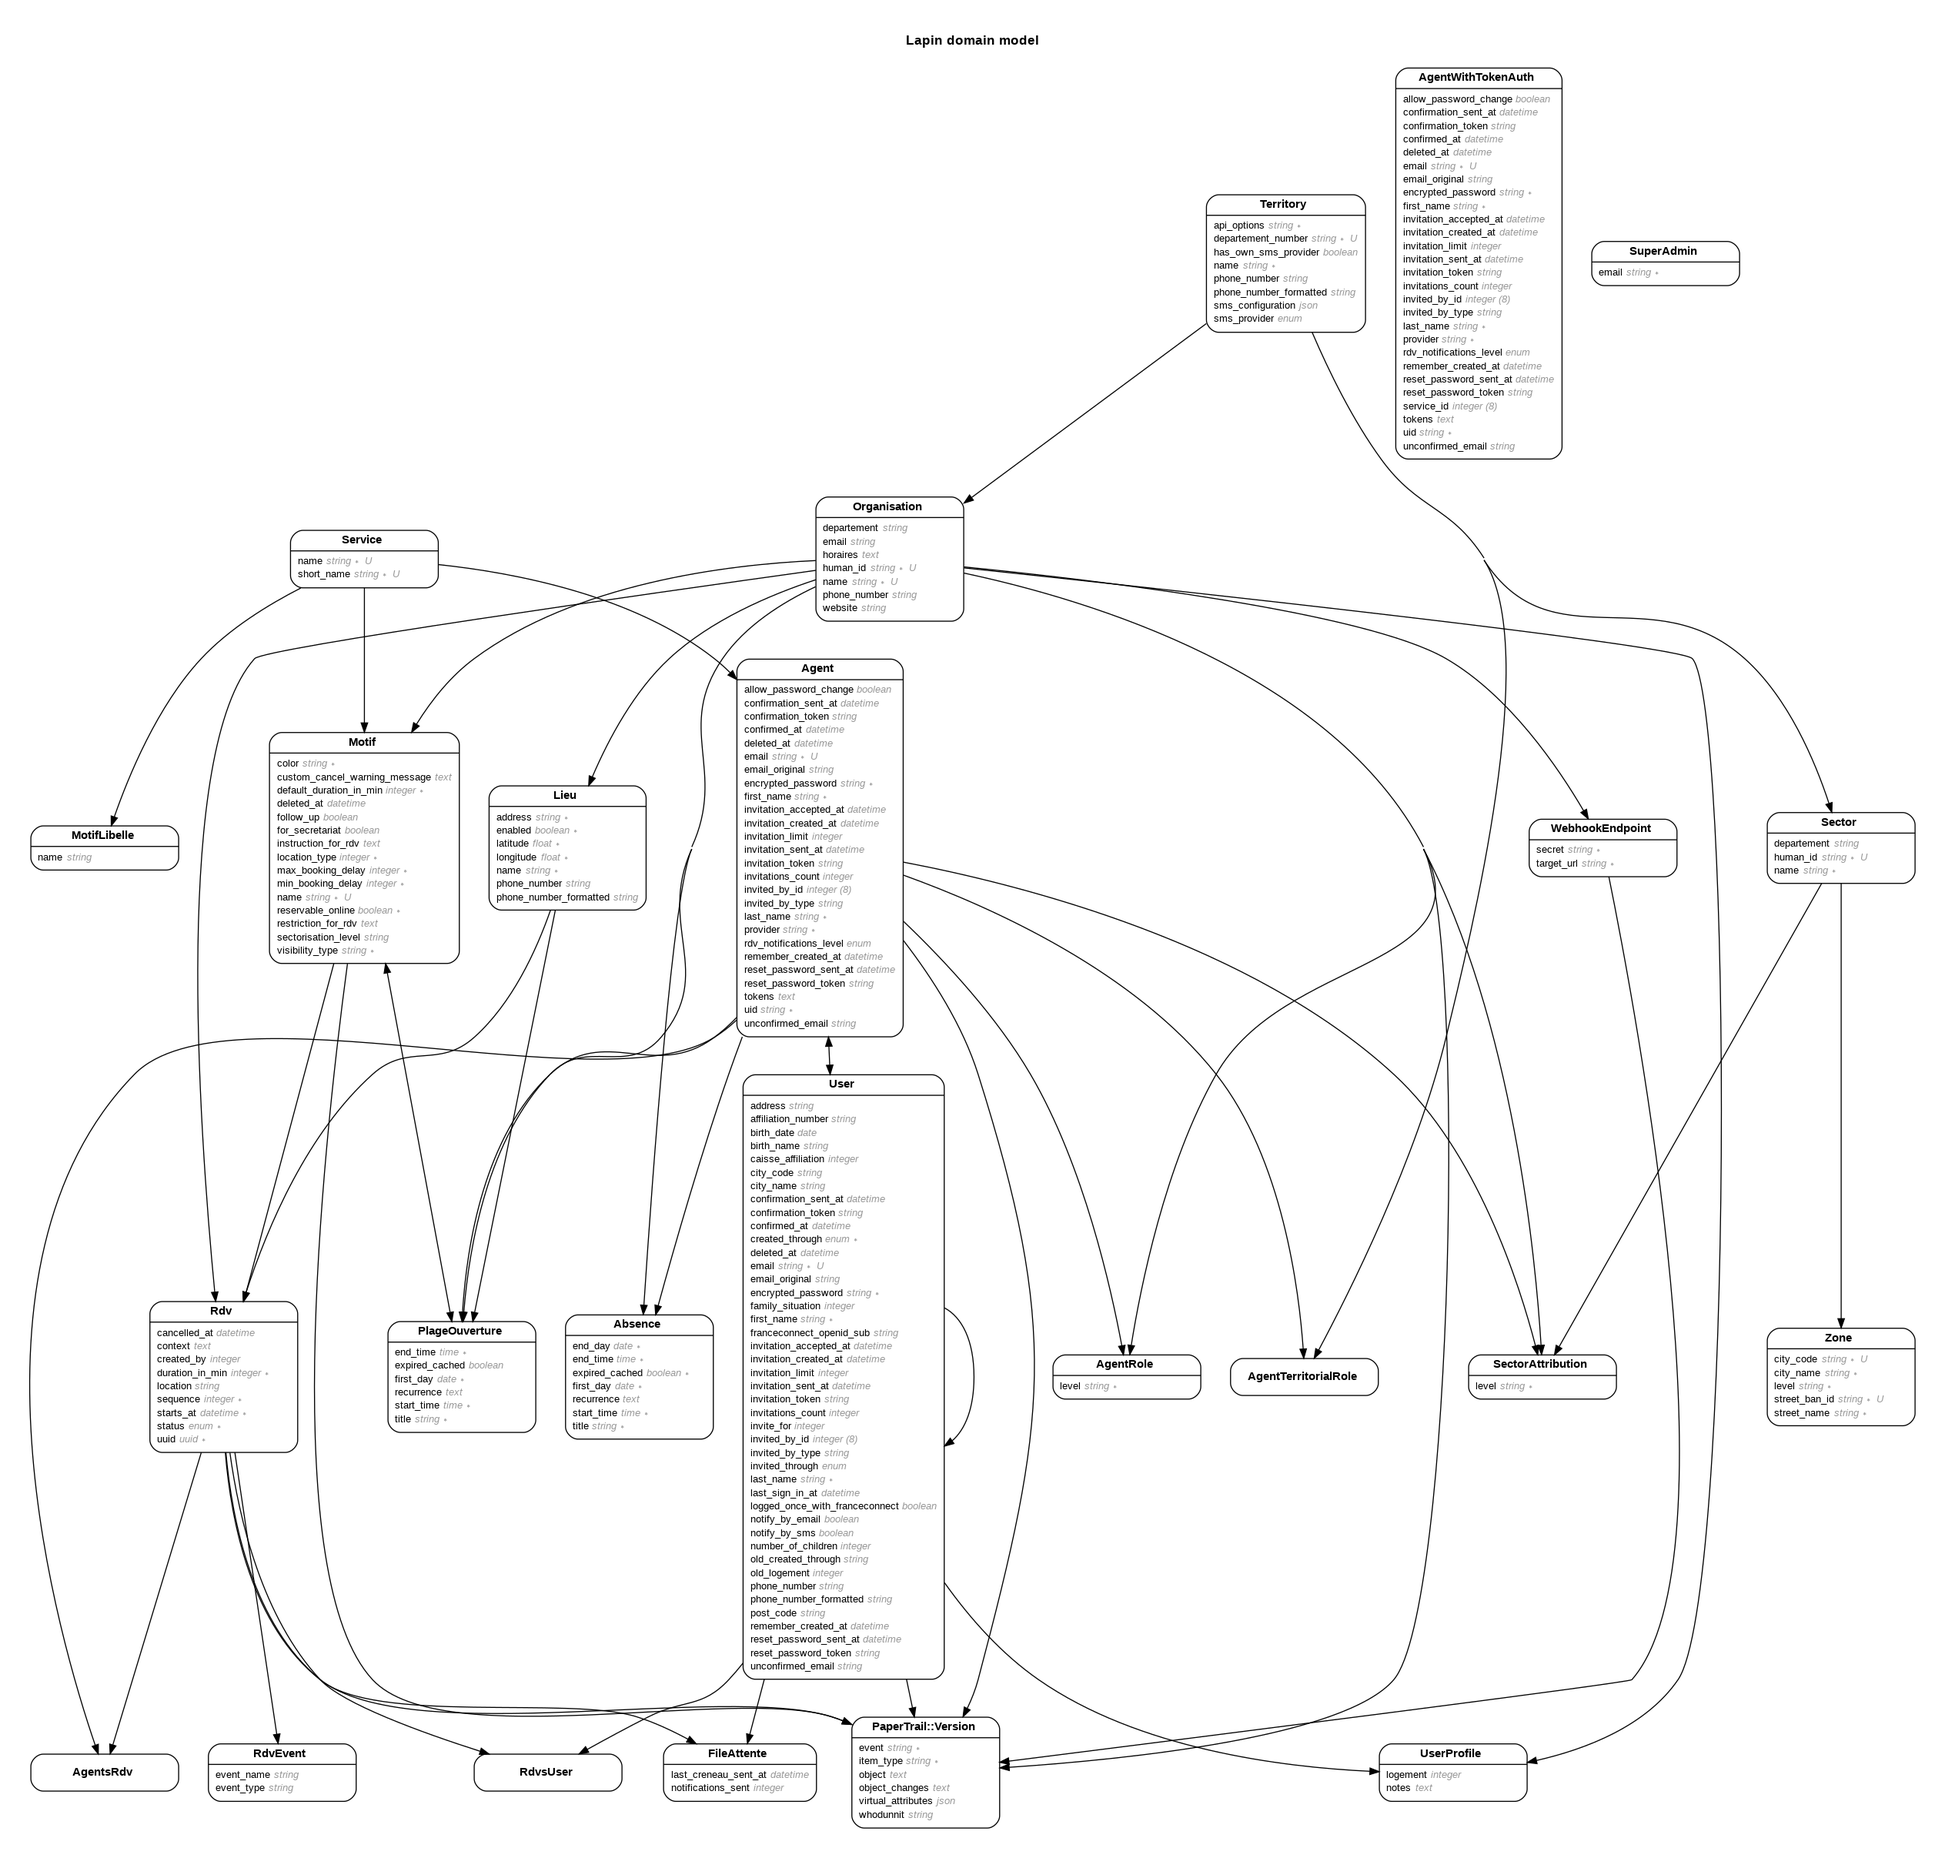
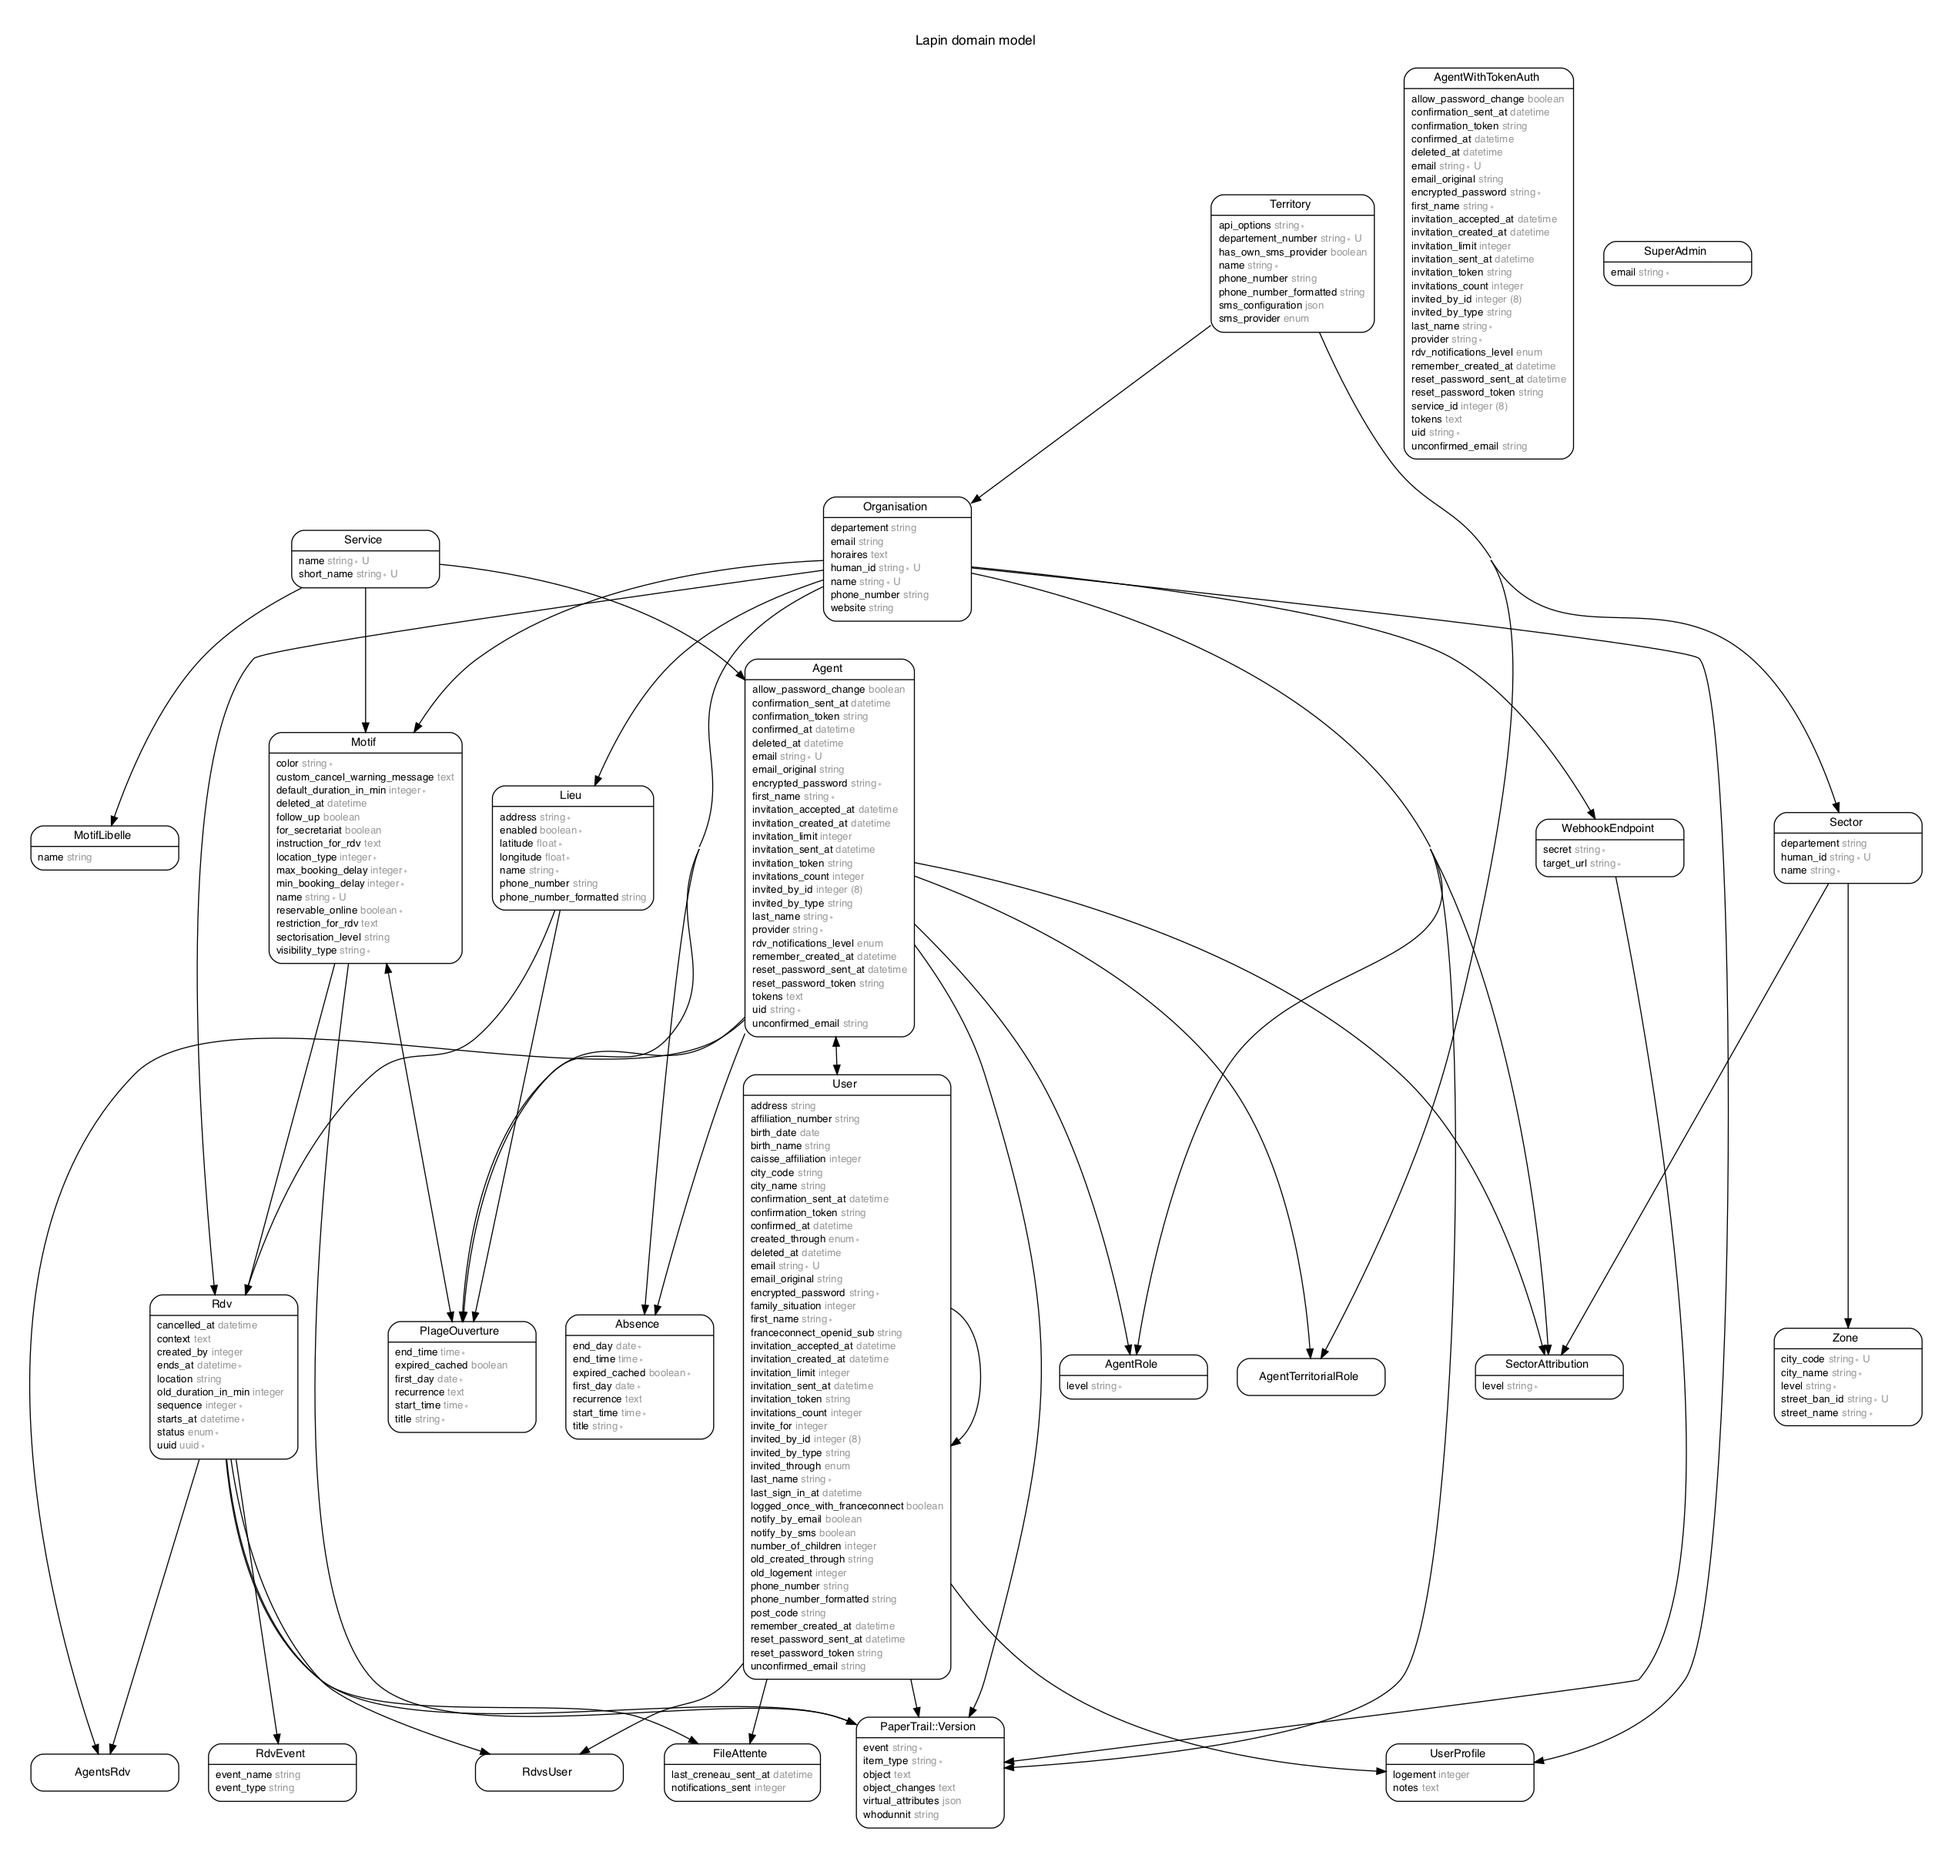
Add Rdv#ends_at

diff --git a/db/schema.rb b/db/schema.rb
@@ -10,7 +10,7 @@
 #
 # It's strongly recommended that you check this file into your version control system.
 
-ActiveRecord::Schema.define(version: 2021_09_30_100857) do
+ActiveRecord::Schema.define(version: 2021_10_05_130448) do
 
   # These are extensions that must be enabled in order to support this database
   enable_extension "plpgsql"
@@ -309,7 +309,7 @@ ActiveRecord::Schema.define(version: 2021_09_30_100857) do
   end
 
   create_table "rdvs", force: :cascade do |t|
-    t.integer "duration_in_min", null: false
+    t.integer "old_duration_in_min"
     t.datetime "starts_at", null: false
     t.bigint "organisation_id"
     t.datetime "created_at", null: false
@@ -323,7 +323,9 @@ ActiveRecord::Schema.define(version: 2021_09_30_100857) do
     t.text "context"
     t.bigint "lieu_id"
     t.enum "status", default: "unknown", null: false, enum_name: "rdv_status"
+    t.datetime "ends_at", null: false
     t.index ["created_by"], name: "index_rdvs_on_created_by"
+    t.index ["ends_at"], name: "index_rdvs_on_ends_at"
     t.index ["lieu_id"], name: "index_rdvs_on_lieu_id"
     t.index ["motif_id"], name: "index_rdvs_on_motif_id"
     t.index ["organisation_id"], name: "index_rdvs_on_organisation_id"

diff --git a/db/migrate/20211005130448_add_rdvs_ends_at.rb b/db/migrate/20211005130448_add_rdvs_ends_at.rb
@@ -1,0 +1,17 @@
+# frozen_string_literal: true
+
+class AddRdvsEndsAt < ActiveRecord::Migration[6.0]
+  def change
+    add_column :rdvs, :ends_at, :datetime
+
+    up_only do
+      Rdv.update_all("ends_at = starts_at + duration_in_min * INTERVAL '1 minute'") # rubocop:disable Rails/SkipsModelValidations
+    end
+
+    add_index :rdvs, :ends_at
+
+    change_column_null :rdvs, :ends_at, false
+    rename_column :rdvs, :duration_in_min, :old_duration_in_min
+    change_column_null :rdvs, :old_duration_in_min, true
+  end
+end

diff --git a/db/seeds.rb b/db/seeds.rb
@@ -574,7 +574,7 @@ rdv_attributes = 1000.times.flat_map do |i|
       created_at: now,
       updated_at: now,
       starts_at: day + hour.hours,
-      duration_in_min: 30,
+      ends_at: day + hour.hours + 30.minutes,
       motif_id: motif_org_paris_nord_pmi_securite.id,
       lieu_id: lieu_org_paris_nord_bd_aubervilliers.id,
       organisation_id: org_paris_nord.id,
